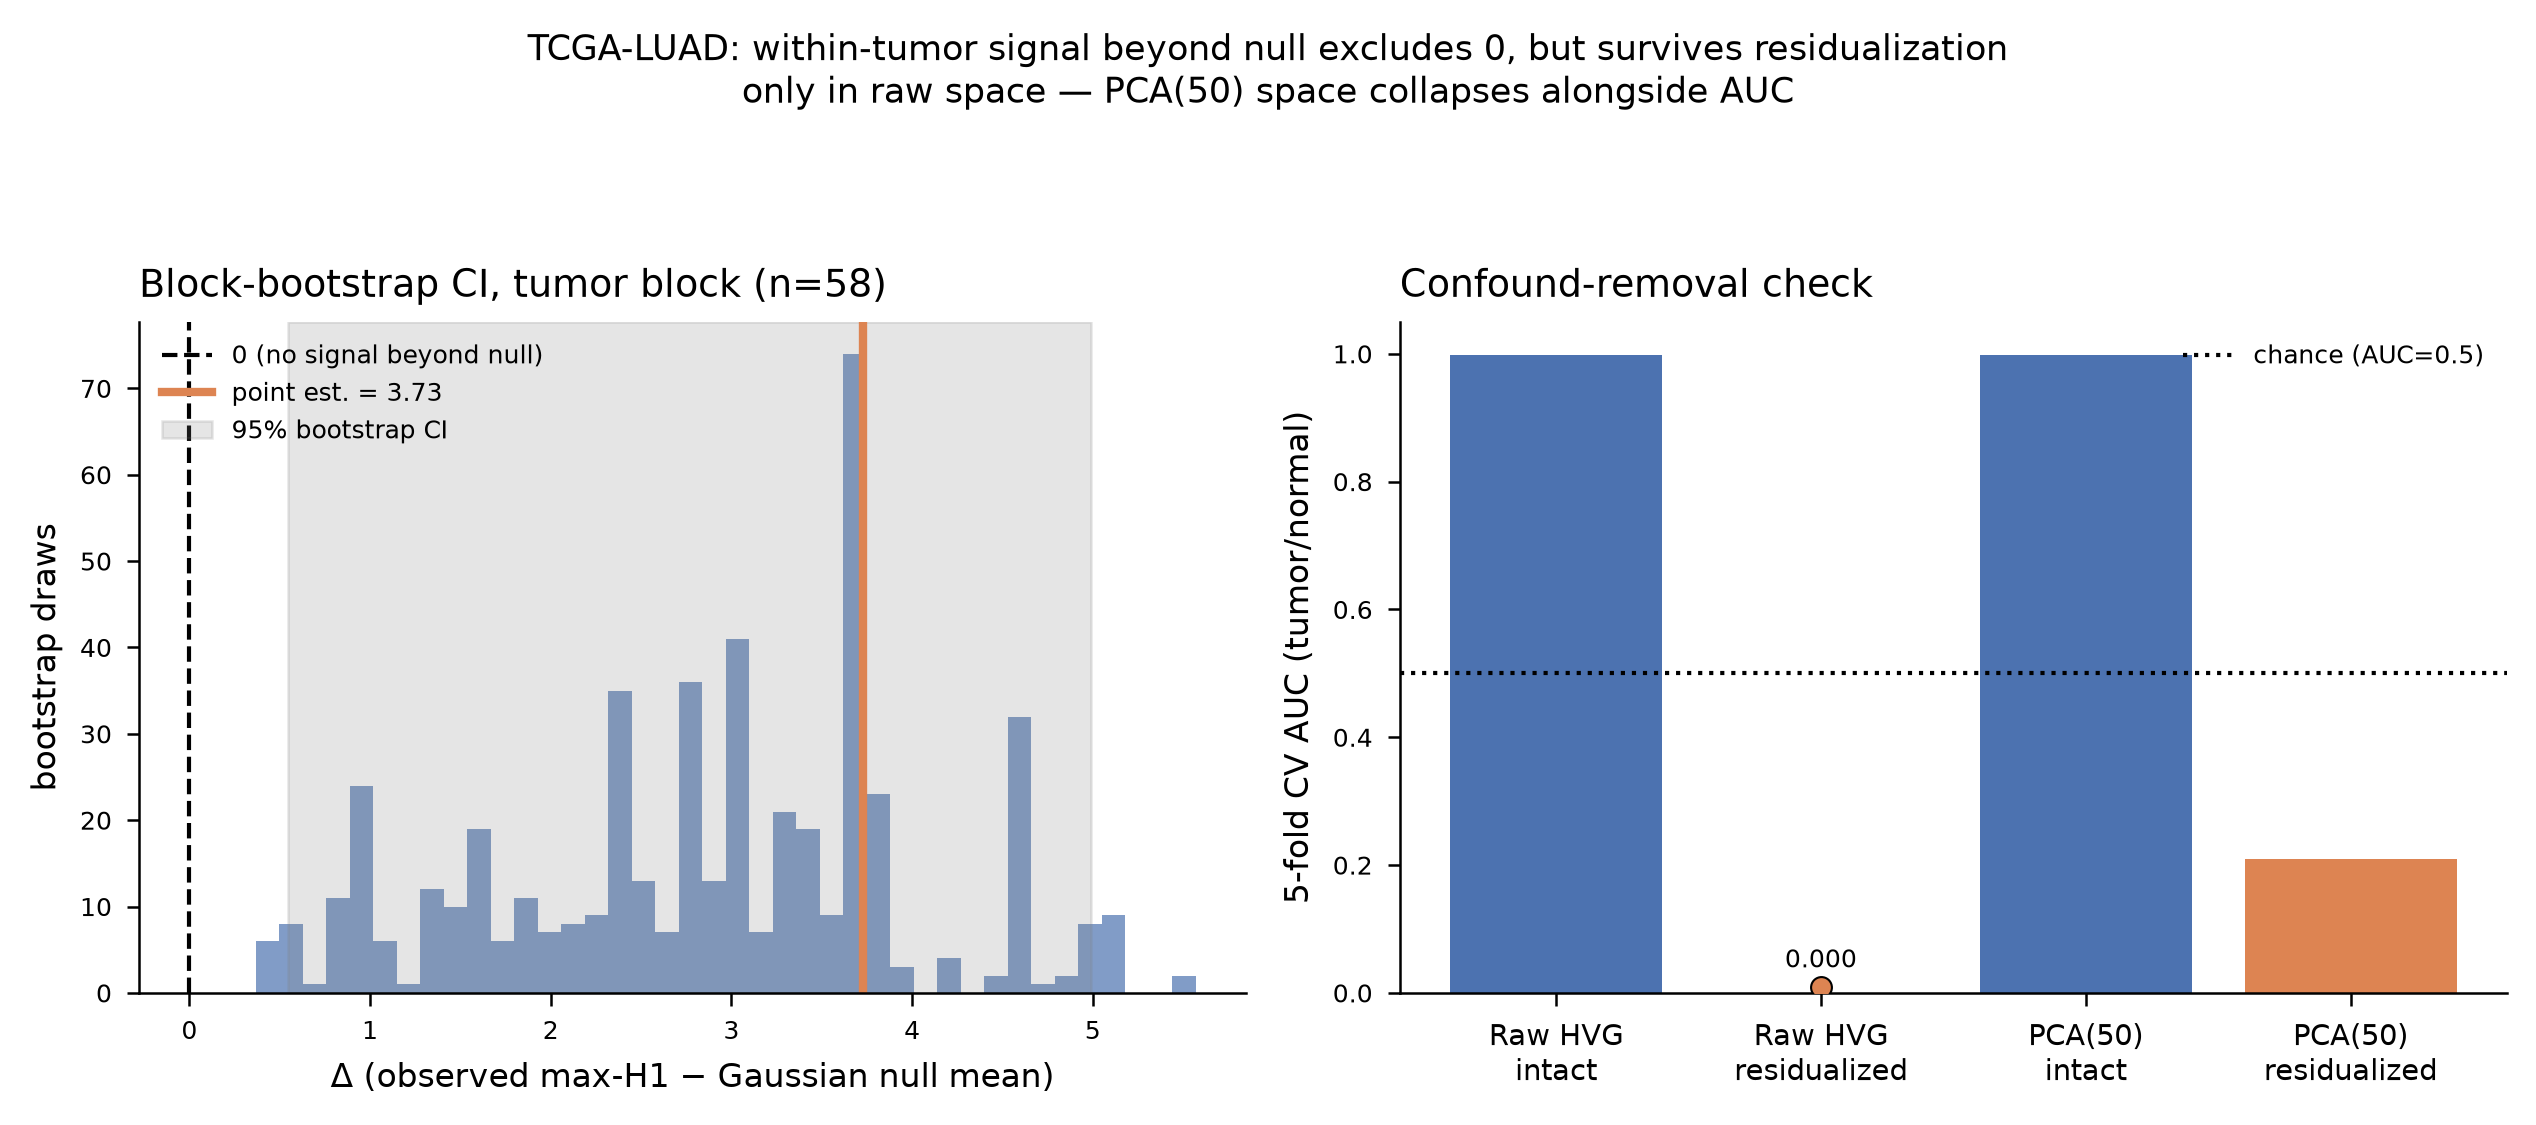
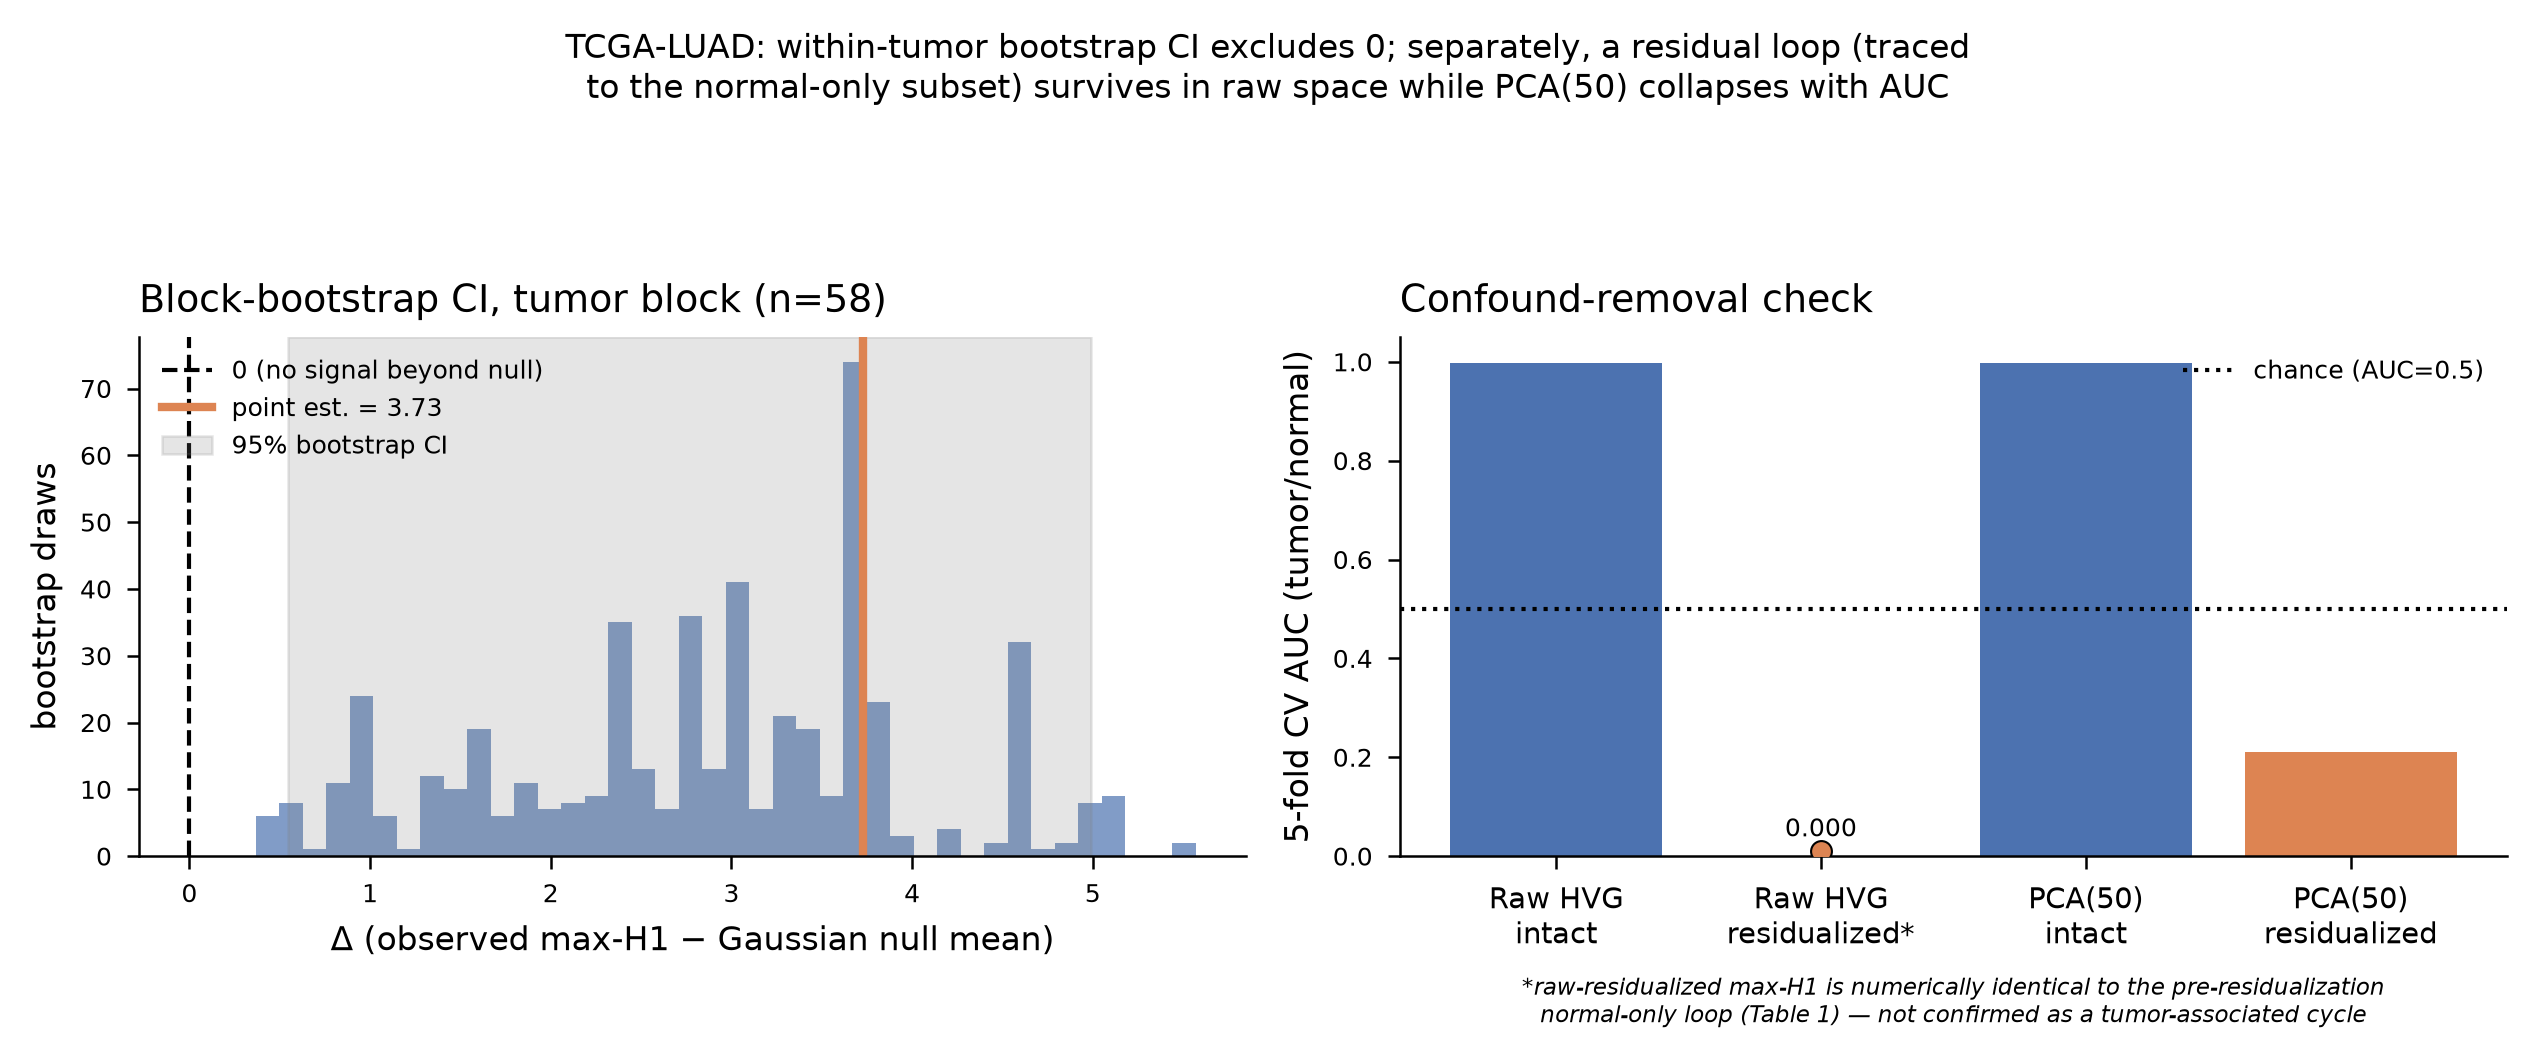
Fix: clarify raw-space residualized signal is the pre-existing normal-only loop, not confirmed tumor-associated survival

diff --git a/results/confound_attribution_audit/confound_audit_TCGA_LUAD.md b/results/confound_attribution_audit/confound_audit_TCGA_LUAD.md
@@ -87,7 +87,7 @@ The 95% CI excludes zero, but its lower bound (z=3.65) sits far closer to the pr
 
 Applying the skill's reading rubric to TCGA-LUAD's RNA-seq layer specifically, **the result is mixed, and materially weaker than the pilot — this audit does not reproduce the pilot's clean "genuine signal, fully confound-independent" finding.**
 
-- **What survives:** Both the tumor-only and normal-only subsets show real topological structure clearing their own null distributions by wide margins (z=25.0 and z=12.8 against Gaussian null). Residualization in the **raw HVG (2000-d) space** leaves the signal intact (z=14.5 Gaussian / z=12.1 permutation) despite CV AUC collapsing to 0.000. The block-bootstrap CI on the within-tumor signal-beyond-null excludes zero.
+- **What survives:** Both the tumor-only and normal-only subsets show real topological structure clearing their own null distributions by wide margins (z=25.0 and z=12.8 against Gaussian null). Residualization in the **raw HVG (2000-d) space** leaves a signal intact (z=14.5 Gaussian / z=12.1 permutation) despite CV AUC collapsing to 0.000 — **but this raw-space residualized value (2.779) is numerically identical to the pre-residualization normal-only statistic from Section 3, confirming (per Section 5's structural check) it is the intra-normal-tissue loop passing through unchanged, not a demonstrated tumor-associated signal surviving the control.** The block-bootstrap CI on the within-tumor signal-beyond-null (a separate computation, Section 7) excludes zero on its own terms.
 - **What does not survive, or replicates only partially:**
   - The tumor-only and normal-only subsets do **not** reproduce the mixed-set magnitude (unlike the pilot's exact match) — cross-class structure contributes materially to the mixed-set statistic here.
   - The within-stratum control **fails in one of four quartiles** (Q1, the least tumor-like tumor samples, n=15): observed max-H1 falls below its own null mean, BH-adjusted p=0.78. This is a genuine gap the pilot did not have (pilot: all four quartiles cleared z>8.8).
